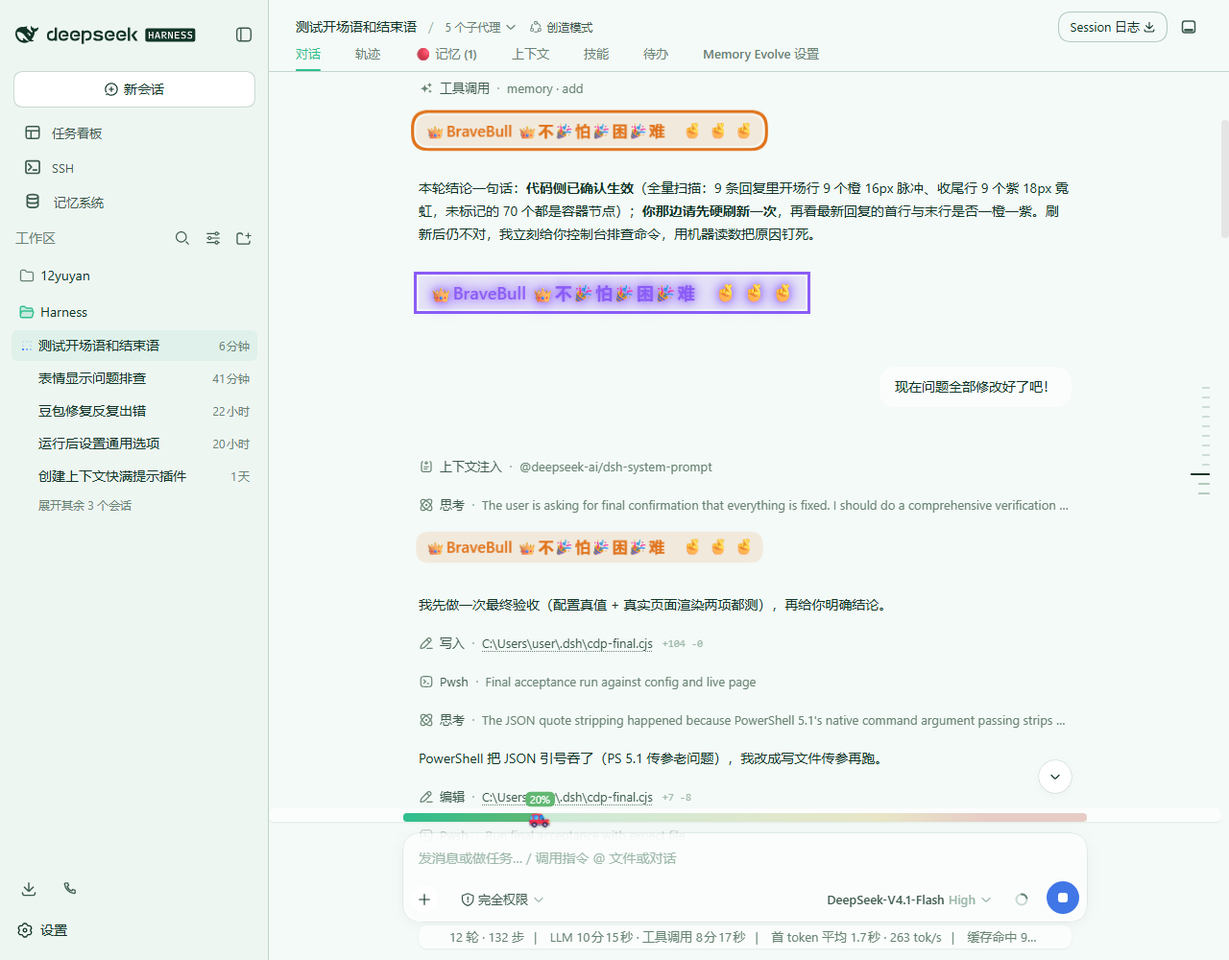
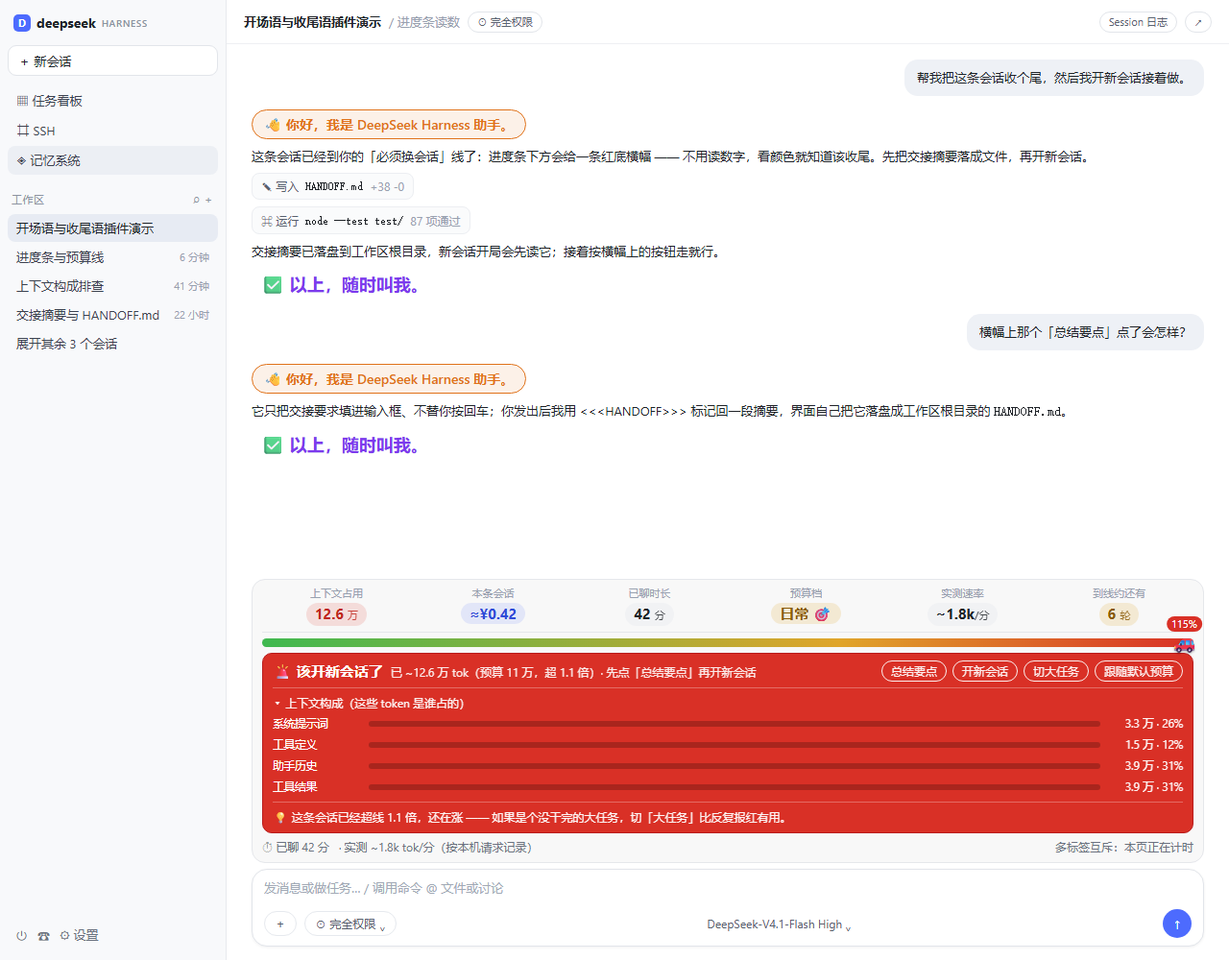
docs: README 全面重写（补齐 1.11-1.20 能力）+ 重拍两张预览图（六格读数 / 红底预算横幅 / 设置页全分区）

diff --git a/README.md b/README.md
@@ -1,40 +1,46 @@
 <h1 align="center">dsh-greet-signoff</h1>
 
-<p align="center">开场语与收尾语：让 AI 每次回复都带上你设定的一句开场与一句收尾，并在上下文接近上限时用一条导航条提醒你开新会话。<br/>（DeepSeek Harness 插件 · Web 端）</p>
+<p align="center">开场语与收尾语 + 会话预算导航条：让每轮回复都带上你设定的一句开场与一句收尾，<br/>并在输入框上方常驻显示「这条会话还能聊多久」——到线时用颜色和横幅提醒你收尾换会话。<br/>（DeepSeek Harness 插件 · Web 端）</p>
 
 <p align="center">
   <img alt="license" src="https://img.shields.io/badge/license-MIT-blue.svg" />
   <img alt="platform" src="https://img.shields.io/badge/platform-web-2b6cb0.svg" />
   <img alt="dsh" src="https://img.shields.io/badge/dsh-0.1.5--rc.1-6f42c1.svg" />
+  <img alt="version" src="https://img.shields.io/badge/version-1.20.0-orange.svg" />
+  <img alt="tests" src="https://img.shields.io/badge/tests-87%20passed-3fb950.svg" />
 </p>
 
 <p align="center">
-  <img src="docs/preview-chat.png" alt="开场语与收尾语在对话里的效果" width="720" />
+  <img src="docs/preview-chat.png" alt="开场语与收尾语在对话里的效果，以及输入框上方的会话预算导航条" width="760" />
 </p>
 
 ## 这是什么
 
-一个 DeepSeek Harness 的 Web 插件，做三件事：
+一个 DeepSeek Harness 的 Web 插件：**给每轮回复加上你配置的开场语与收尾语，并在输入框上方常驻一条「会话预算导航条」** —— 这条会话花了多少、还剩多少、多久之后该开新会话，一眼可见。
 
-1. **固定开场语与收尾语**：每次回复的正文第一行是开场语、最后一行是收尾语，文字与样式都由你在设置里改。
-2. **正文行样式**：开场行与收尾行在对话里按各自配置渲染（字号、颜色、字重、动效、形状、填充、边框、阴影、字距、大小写、斜体、自定义图片）。
-3. **上下文占用导航条**：输入框上方一条进度条，实时显示当前上下文占用百分比，条上有"车头朝右"的小车标记、条尾有实时百分比，颜色随占用连续变化；接近上限时整条按告警色并闪动。还没有任何请求记录的空白会话显示 `—`（不是 0%）。
-4. **连接自愈**：`dsh web` 每次重启都会换访问令牌，已经打开的页面会一直停在"自动重连中"（旧握手续不上，官方建议手动刷新）。本插件带一个看门狗：连续 30 秒看到连接异常、且服务端本身可达（`/` 仍是 200）、且输入框里没有草稿时，自动重载一次页面 —— 重载会用 cookie 重新握手，页面自己就活了。服务真挂了（探活失败）不动作，避免刷屏；本标签页每小时最多自动重载 3 次、两次之间至少隔 60 秒。
-5. **文案池（1.7.0）**：开场语 / 收尾语各可以填一池句子（一行一句，最多 20 句），开启后每轮从池子里挑一句 —— 随机或按顺序轮换。池子里的句子同样支持动态变量，页面样式对池子里每一句都生效；某一行的池子留空，那一行自动回落固定文案。
-6. **本轮信息变量与自检（1.8.0）**：固定行里可以用 `{model}` `{count}` `{elapsed}` `{tokens}` —— 由服务端在每轮组装提示时填真实值（耗时与用量报的是**上一次**调用），页面侧用通配符匹配，所以数值怎么变都贴得上样式。设置页「诊断」区还有「跑一遍自检」：配置、文案、贴样式、进度条、连接自愈、宿主半/浏览器半版本、规则文本、会话识别，一次问到底。
-7. **场景与阈值提醒（1.9.0）**：①「场景」分区可以存下整份设置快照（文案+样式+阈值+文案池），一键在"工作 / 生活 / 深夜"之间整包切换；②上下文到黄/红阈值时进度条下方出现提醒行，附「总结要点」（把交接摘要要求交给你：优先写进输入框，不行就复制到剪贴板，再不行直接显示）与「开新会话」；③浏览器控制台可用 `__dshGreetSignoff` 查看版本、自愈计数、输入框定位与写入结果。
-8. **按工作区换文案与编辑器增强（1.10.0）**：①按工作区自动换文案（绑定目录前缀，优先级：工作区绑定 > 文案池 > 固定文案；设置页里有一键"填当前工作区"）；②一键外观改成 16 张小样卡（每张直接渲染当前文案的样子）；③底色/边色各有常用色板；④文案/外观可一键复制到另一行；⑤图片支持拖拽上传；⑥「撤销上次保存」一键回退。
+1. **固定开场语与收尾语**：每次回复的正文第一行是开场语、最后一行是收尾语，文字与样式都在设置里改；改完保存，下一轮回复即生效（不用重启）。
+2. **正文行样式**：开场行与收尾行在对话里按各自配置渲染 —— 字号、颜色（含深色档）、字重、动效、形状、填充、边框、阴影、字距、大小写、斜体、自定义图片。
+3. **六格读数**：`上下文占用` / `本条会话花费` / `已聊时长` / `预算档` / `实测速率` / `到线约还有`。窗口变窄自动退回 3 列、2 列，数字不会被挤成省略号。
+4. **预算口径（默认）**：进度条 100% = **你自己设的「必须换会话」线**（默认 7.5 万提醒 / 11 万必须换），不是 100 万 tok 的模型窗口 —— 后者会让一条早该收尾的会话显示成 24%。
+5. **到线就不靠数字了**：到黄线整条变黄 + 标签页标题加 `⚠`；到红线整条变红 + 呼吸 + **红底大字横幅「🚨 该开新会话了」** + 标题加 `🚨`；还能开浏览器系统通知（页面在后台也收得到）。
+6. **一键收尾与换会话**：横幅上是「总结要点 / 开新会话 / 切大任务 / 跟随默认预算」。点「总结要点」只把要求写进输入框（不替你发送），你发出后我把摘要用 `<<<HANDOFF>>>` 标记回给你，**界面自己把它落盘成工作区根目录的 `HANDOFF.md`**，新会话开局会先读它 —— 上下文与结论才真的带得过去。
+7. **上下文构成明细**：点开横幅里的「上下文构成」，按 token 从大到小列出系统提示词 / 工具定义 / 记忆注入 / 助手历史 / 工具结果各占多少，直接告诉你"砍哪里省钱"。
+8. **花费台账**：进度条那行常驻本条会话的 `≈¥0.42`；设置页里有今天 / 近 7 天 / 最贵几条会话的账。全部读本机文件（`session_projcache` 上下文投影、`dsh-usage/usage-ledger.json`），**不联网、不外发**。
+9. **四档预算模式**：`日常` 7.5 万/11 万、`大任务` 15 万/20 万、`省着聊` 5 万/7.5 万、`自定义`。优先级：**本会话临时档 &gt; 全局默认档 &gt; 内置默认**；三个入口都能切（进度条行里的 🎯 胶囊 / 到线横幅按钮 / 设置页）。
+10. **场景与文案池**：文案池每轮从一池句子里挑一句（随机或按顺序）；「场景」把整份设置（文案+样式+阈值+池子）存成快照，工作/生活/深夜一键整包切换；还能按工作区目录前缀自动换文案。
+11. **动态变量与自检**：固定行里可用 `{date}` `{weekday}` `{daypart}` `{time}` `{model}` `{count}` `{elapsed}` `{tokens}`，由服务端每轮填真实值；设置页「诊断 → 跑一遍自检」把配置、文案、贴样式、进度条、连接自愈、两侧版本一次问到底。
+12. **连接自愈**：`dsh web` 重启会换令牌，已打开的页面会卡在"自动重连中"。本插件带看门狗：连续 30 秒连接异常、服务端可达（`/` 仍 200）、且输入框没有草稿时自动重载一次；服务真挂了不动作，本标签页每小时最多 3 次、间隔 ≥60 秒。
 
 配置存在 `$DSH_HOME/greet-signoff.json`（Windows 默认 `C:\Users\<你>\.dsh\greet-signoff.json`），**改完保存下一轮回复即生效，不需要重启**。
 
 ## 为什么需要它
 
 - **没有它**：每次想让 AI 的开场/收尾保持一致，只能自己写提示词、或者每次手动粘贴同一句；样式（颜色/字号/动效）更是完全没法统一。
-- **上下文快满时**：你往往是在"回答突然变差/被截断"之后才意识到该开新会话了——这个插件把"还剩多少"变成常驻可见的状态。
+- **上下文快满时**：你往往是在"回答突然变差/被截断"之后才意识到该开新会话了——这个插件把"还剩多少"变成常驻可见的状态，并且用**颜色和横幅**说话，不要求你去心算百分比。
 - **与相邻方案的区别**：
-  - 与「写一段固定提示词」相比：文案与样式都是**可配置项 + 页面渲染**——文案进提示段、样式由浏览器半给对话里那两行贴类渲染，两边共用同一份配置，改完保存即生效（不用重启，也不用改提示词）。
-  - 与 **`dsh-context`**（上下文仪表盘 / context 命令，能看到上下文由什么组成、缓存命中等明细）相比：本插件只做**一条常驻的占用导航条**，不采集、不落库、不开面板；两者可以共存，导航条挂在 `conversation.input.dock`，`dsh-context` 用的是 `conversation.input.overlay` 与右侧栏，互不遮挡。如果你只用其中一家的占用显示，另一家可以停用。
-  - 与 **`dsh-gold-capsule`** 互斥：那个插件用 `!important` 把**标题里的行内代码**渲染成金色胶囊。一旦把固定行写成 `### \`开场语\``，本插件设置页里的字色/底色/边框/形状/动效会被金色胶囊压掉。**固定行请保持纯文本一行**，两个插件只留一个负责首行样式。
+  - 与「写一段固定提示词」相比：文案与样式都是**可配置项 + 页面渲染**——文案进提示段、样式由浏览器半给对话里那两行贴类渲染，两边共用同一份配置。
+  - 与 **`dsh-context`**（上下文仪表盘 / context 命令）相比：本插件做的是**输入框上方那一条常驻导航条**，不采集、不落库、不开面板；两者可以共存，导航条挂在 `conversation.input.dock`，`dsh-context` 用的是 `conversation.input.overlay` 与右侧栏，互不遮挡。
+  - 与 **`dsh-gold-capsule`** 互斥：那个插件用 `!important` 把**标题里的行内代码**渲染成金色胶囊，会把本插件设置的字色/底色/边框/形状/动效压掉。**固定行请保持纯文本一行**，两个插件只留一个负责首行样式。
 
 ## 安装
 
@@ -48,31 +54,22 @@ dsh plugin --profile web add github:weifa860504-droid/dsh-greet-signoff
 dsh plugin --profile web add <本地包目录的绝对路径>
 ```
 
-装完重启 web：重启后打开任意会话，输入框上方应出现进度条；设置 → 开场收尾 里应出现配置页。
+装完重启 web：重启后打开任意会话，输入框上方应出现导航条；设置 → 开场收尾 里应出现配置页。
 
 ## 用起来是什么样
 
-- **对话里**：每条回复第一行渲染成你配的开场样式（默认橙色 16px、脉冲动效、胶囊底），最后一行渲染成收尾样式（默认紫色 18px、霓虹动效、直角）。中间正文不受影响。
-- **输入框上方**：一条进度条 + 车标 + 百分比气泡，鼠标悬停显示「上下文占用 25% · ~245.3k / 1.0M · 剩余 ~755k · 约还能聊 12 轮（最近 5 轮均值 ~62.3k/轮）」这类明细；形态可在「完整 / 紧凑细条 / 只显示一行文字」之间切换。
-- **占用格的采样口径**：读数那一排里的「上下文占用」格自己带悬停说明 —— 它是"**发下一条消息时预计要喂进去多少 token**"
-  （上一次请求真正喂进去的 prompt + 那次采样之后界面上新增的部分），**只在每轮请求结束后刷新一次、天然滞后一轮**，
-  不是屏幕上现在有多少字；预算档下顺带写出当前黄线 / 红线与本次读数，超红线提示"建议开新会话"。
-- **接近上限时**：整条按告警色并闪动，下方给出一行提醒；超过阈值还带一个「开新会话」按钮，点一下直接开新会话。
-- **设置页**：左侧菜单栏的「开场收尾」一处入口（设置页里只有这一个入口，不会重复出现）；开场/结束语各一个标签页可切换，改动自动保存，右侧显示「已保存 · 下一次回复即生效」。
-- **预览吸顶**：标签页、保存状态与**实时预览**合并成一条吸顶头部 —— 预览同时显示开场与收尾两行（正在编辑的那行高亮），
-  往下调参数时它一直停在屏幕上方，不用"滚下去改完再滚回来核对"。
-- **分区折叠**：文本 / 字体与颜色 / 外观样式 / 上下文提醒与匹配 / 旧文案兼容 / 进度条外观 / 诊断 各自是一张可折叠卡片，
-  默认只展开高频的三个，其余收起（展开状态记在浏览器本地）；标题右侧带摘要（阈值与匹配模式、旧文案条数、配色、版本号），不展开也能看到当前状态。
-- **一键外观（16 套）**：财神金 / 极简灰 / 大字醒目 / 霓虹赛博 / 樱花 / 复古打字 / 海盐蓝 / 森林绿 / 紫罗兰 /
-  描边风 / 高亮笔 / 引用块 / 细下划线 / 墨绿终端 / 霓虹粉 / 纸质标签 —— 点一下即套用，**只改外观，不动文案与图片**；
-  可只套当前标签页，也可两行都套；旁边的「恢复默认外观」把当前行的外观还原成默认值（文案同样不动）。
-  每套预设都以同一份"底子"打底再叠加，因此套用结果完全可预期（不会残留你之前手调的底色/边框）。
-- **30 种动效**：淡入 / 滑入 / 落下 / 缩放 / 翻转 / 光泽扫过 / 高光划过 / 呼吸 / 心跳 / 发光 / 霓虹闪 / 闪烁 /
-  弹跳 / 抖动 / 摇晃 / 摆动 / 倾斜 / 漂浮 / 旋转 / 波浪 / 彩虹流动 …… 外加 4 种**逐字**动效：
-  **逐字跳动 / 逐字波浪 / 逐字打字机 / 逐字彩虹**（前三者按"字"拆开、逐字错开 0.075s 播放，速度倍率一起生效；
-  emoji 不会被拆散）。动效写在「字体与颜色 → 动效」，速度在它右边。
-- **可搬走**：设置页底部可「导出配置 / 导入配置」（JSON），换电脑或分享给别人都方便。
-- **出问题能自查**：设置页底部有「诊断」折叠区，显示配置文件路径、贴样式器运行次数与耗时、上次扫描的命中行数、跳过了多少非助手块、当前匹配模式等。
+- **对话里**：每条回复第一行渲染成你配的开场样式（默认橙色 16px、脉冲动效、胶囊底），最后一行渲染成收尾样式（默认紫色 18px、霓虹动效、直角）。中间正文不受影响。**一条回复被工具调用拆成多个块时，两行也各归各位**（按文案身份分配样式）。
+- **输入框上方（导航条）**：从上到下是 ① 六格读数 ② 贯通进度条 + 车标 + 百分比气泡 ③ 到线横幅（未到线时不显示）④ 上下文构成明细（展开时）⑤ 时间行 `⏱ 已聊 42 分 · 实测 ~1.8k tok/分`。鼠标悬停时进度条上浮出明细提示。
+- **占用格自己会解释**：悬停「上下文占用」写清采样口径 —— 它是"**发下一条消息时预计要喂进去多少 token**"（上一次请求真正喂进去的 prompt + 那次采样之后界面新增的部分），**只在每轮请求结束后刷新一次、天然滞后一轮**，不是屏幕上现在有多少字；预算档下顺带写出黄线/红线与本次读数。
+- **到线时**：黄条/红条 + 标题前缀 + 红底横幅（可开系统通知）。横幅上的按钮就是下一步动作：`总结要点`（把交接要求填进输入框，界面自动落盘 `HANDOFF.md`）、`开新会话`、`切大任务`、`跟随默认预算`。
+- **设置页**：左侧菜单栏「开场收尾」一个入口；开场语 / 结束语两个标签页，改动自动保存，右侧显示「已保存 · 下一次回复即生效」。
+- **预览吸顶**：标签页、保存状态与**实时预览**合并成一条吸顶头部 —— 预览同时显示开场与收尾两行（正在编辑的那行高亮），往下调参数时它一直停在屏幕上方。
+- **分区折叠 + 快速跳转**：文本 / 字体与颜色 / 外观样式 / 上下文提醒与匹配 / 进度条外观 / 场景 / 花费与上下文 / 诊断 各自是一张可折叠卡片，默认只展开高频的几个；顶部有快速跳转条（一键展开并跳过去）。
+- **一键外观（16 套）**：财神金 / 极简灰 / 大字醒目 / 霓虹赛博 / 樱花 / 复古打字 / 海盐蓝 / 森林绿 / 紫罗兰 / 描边风 / 高亮笔 / 引用块 / 细下划线 / 墨绿终端 / 霓虹粉 / 纸质标签 —— 点一下即套用，**只改外观，不动文案与图片**。
+- **30 种动效**：淡入 / 滑入 / 落下 / 缩放 / 翻转 / 光泽扫过 / 高光划过 / 呼吸 / 心跳 / 发光 / 霓虹闪 / 闪烁 / 弹跳 / 抖动 / 摇晃 / 摆动 / 倾斜 / 漂浮 / 旋转 / 波浪 / 彩虹流动 …… 外加 4 种**逐字**动效（逐字跳动 / 逐字波浪 / 逐字打字机 / 逐字彩虹；emoji 不会被拆散）。
+- **长尾选项不挡路**：配色（33 套）、动效（30 项）、车标（31 款）默认只列常用 6 项，末尾那条「▾ 显示全部 / ▴ 只看常用」同一个用法 —— 选择成本下来了，功能一个没少。
+- **可搬走**：设置页底部可「导出配置 / 导入配置」（JSON）；「撤销上次保存」一键回退。
+- **出问题能自查**：设置页「诊断」显示配置文件路径、贴样式器运行次数与耗时、命中行数、宿主半/浏览器半版本、规则文本与会话识别。
 
 ![设置页](docs/preview-settings.png)
 
@@ -82,11 +79,15 @@ dsh plugin --profile web add <本地包目录的绝对路径>
 | --- | --- |
 | Prompt 段 | 向系统提示注册「开场与收尾」规则，每次组装提示时实时读取配置，因此改文案立即生效 |
 | 配置接口 | `GET /api/greet-signoff` 读真值、`POST /api/greet-signoff` 写整份配置（设置页用的就是它） |
-| 资源接口 | `GET /api/greet-signoff/asset/<name>` 回自定义图片；`GET /api/greet-signoff/emoji-index` 回表情中文名/关键词索引（浏览器半**首次展开表情框时才取**，主包因此小了 51KB） |
-| 会话接口 | `GET /api/greet-signoff/session?sessionId=<id>` 回会话创建时间与上一轮统计（进度条时间功能用）；`GET /api/greet-signoff/rule-text` 回"这一刻模型会看到的规则文本"，自检用 |
-| 设置 UI | 只注册 `settings.section`（左侧菜单栏「开场收尾」一处入口；不再往「通用」里塞第二行，避免同一个编辑器出现两个入口） |
-| 状态 UI | 注册 `conversation.input.dock`，在输入框上方渲染上下文占用导航条（占用百分比 + 已聊时长 / 还能聊多久） |
-| 深浅判定 | 综合 `body[data-ds-dark-theme]`、根元素 `color-scheme`、系统偏好与页面底色亮度，结果写到 `<html data-gs-dark>`；dark-only 皮肤也能正确套用 `colorDark`/`bgColorDark`/`borderColorDark` |
+| 资源接口 | `GET /api/greet-signoff/asset/<name>` 回自定义图片；`GET /api/greet-signoff/emoji-index` 回表情中文名/关键词索引（首次展开表情框时才取） |
+| 会话接口 | `GET /api/greet-signoff/session?sessionId=<id>` 回会话创建时间与上一轮统计；`GET /api/greet-signoff/rule-text` 回"这一刻模型会看到的规则文本"，自检用 |
+| 明细接口 | `GET /api/greet-signoff/context?sessionId=<id>` 回上下文构成明细 + 速率/每轮涨量（`pace`）；`GET /api/greet-signoff/cost?sessionId=<id>&days=7` 回花费台账 |
+| 落盘接口 | `POST /api/greet-signoff/handoff` 写工作区根目录的 `HANDOFF.md`（已存在先备份 `.bak`；filename/cwd/text 三重校验） |
+| 数据来源 | 只读本机 `session_projcache`（上下文投影）、`dsh-usage/usage-ledger.json`（台账）与配置目录；不联网、不外发、不建库 |
+| 设置 UI | 只注册 `settings.section`（左侧菜单栏「开场收尾」一处入口） |
+| 状态 UI | 注册 `conversation.input.dock`，在输入框上方渲染导航条（六格读数 + 进度条 + 横幅 + 时间行） |
+| 深浅判定 | 综合 `body[data-ds-dark-theme]`、根元素 `color-scheme`、系统偏好与页面底色亮度，结果写到 `<html data-gs-dark>`；dark-only 皮肤也能正确套用深色档颜色 |
+| 通知 | 可选的浏览器系统通知（到线时发；需在设置页打开并向浏览器授权） |
 
 本插件**不注册模型工具**，也不发布宿主服务（仅消费 `systemPrompt`、`webServer` 两个宿主服务与浏览器端的 `slots`）。
 
@@ -102,8 +103,8 @@ dsh plugin --profile web add <本地包目录的绝对路径>
 | `fontWeight` | 字重（400/500/600/700/800） | 600 / 600 |
 | `color` | 文字颜色（空=跟随主题） | 空 / 空 |
 | `colorDark` | 深色主题下的文字颜色（空=沿用 `color`） | 空 / 空 |
-| `animation` / `animSpeed` | 动效（26 种，含 pulse/neon/rainbow 等）与倍速 1–4 | `none` / 1 |
-| `shape` / `radius` | 形状（10 种：pill/round/soft/rect/card/tag/underline/highlight/blockquote）与圆角 0–999 | `none` / 12 |
+| `animation` / `animSpeed` | 动效（30 种，含 4 种逐字）与倍速 1–4 | `none` / 1 |
+| `shape` / `radius` | 形状（10 种：pill/round/soft/rect/card/tag/underline/highlight/blockquote 等）与圆角 0–999 | `none` / 12 |
 | `padY` | 纵向内边距 0–24 | 5 / 5 |
 | `fill` / `bgColor` | 填充方式（none/faint/theme/solid）与背景色 | `none` / 空 |
 | `bgColorDark` / `borderColorDark` | 深色主题下的背景色 / 边框色（空=沿用浅色值） | 空 / 空 |
@@ -119,8 +120,12 @@ dsh plugin --profile web add <本地包目录的绝对路径>
 
 | 字段 | 含义 | 默认 |
 | --- | --- | --- |
-| `warnPercent` | 黄色告警阈值 | 70 |
+| `warnPercent` | 黄色告警阈值（「占模型窗口」口径用） | 70 |
 | `criticalPercent` | 红色告警阈值（自动保证大于黄色） | 85 |
+| `pricing` | 计价口径：未命中输入 / 缓存命中输入 / 输出（元每百万） | 1 / 0.02 / 4 |
+| `pool` | 文案池：`{ enabled, mode: "sequence" \| "random", greeting: [], signOff: [] }` | 关闭 |
+| `scenes` | 场景快照列表（每项是整份设置的快照，含文案、样式、阈值、池子） | `[]` |
+| `bindings` | 按工作区绑定（目录前缀 → 文案/样式覆盖） | `[]` |
 | `matchMode` | 固定行匹配方式：`exact` 逐字相同 / `loose` 宽松（忽略大小写、空白、全半角与首尾标点）/ `fuzzy` 近似容错 | `loose` |
 | `onlyAssistant` | 只给助手的回复贴样式；`false` 时整段对话都贴 | true |
 | `legacyLines` | 旧文案兼容表：`[{ text, style: "greeting" \| "signOff" }]`，最多 30 条，**只影响页面渲染，不写进提示词** | `[]` |
@@ -136,7 +141,7 @@ dsh plugin --profile web add <本地包目录的绝对路径>
   - **宽松**（默认）：先去掉零宽字符、压缩空白，再做 Unicode NFKC（全角→半角）、把中文标点折叠成 ASCII（`，`→`,`、`。`→`.`）、去掉所有空白、削掉首尾的引号/括号/星号/井号与句读，并统一小写；
   - **近似容错**：在宽松的基础上再算编辑距离，相似度 ≥ 86% 且长度差 ≤ 25% 才算命中（例如只差一个字、一个数字）。
 - **多行文案**：文案里可以换行；如果宿主把换行渲染成两个段落，两段会依次比对、都贴上同一套样式。
-- **动态变量**：`{date}` `{year}` `{month}` `{day}` `{weekday}` `{daypart}` `{time}`；宿主在写提示词时就解析成具体文字，页面渲染时按同一套规则解析（带 `{daypart}` 时页面会把所有时段都当作候选，正好跨过时段边界也不会掉样式）。
+- **动态变量**：`{date}` `{year}` `{month}` `{day}` `{weekday}` `{daypart}` `{time}` `{model}` `{count}` `{elapsed}` `{tokens}`；宿主在写提示词时就解析成具体文字，页面渲染时按同一套规则解析（带 `{daypart}` 时页面会把所有时段都当作候选，正好跨过时段边界也不会掉样式）。
 - **只贴助手的回复**（默认开）：宿主给每个消息块打了 `data-chat-flow-kind`，用户消息、工具结果、思考面板一律跳过；认不出的宿主版本会退化成"整段都贴"，不会整片失效。
 - 候选标签是 `p / li / div / span / h1–h6 / code`，因此模型偶尔把固定行写成 `# 标题`、`**加粗**` 或用反引号包起来也能命中；
 - 同一行同时命中外层与内层时只保留最外层；**一条回复被工具调用拆成多个块时，按"文案身份"分配样式**（命中开场文案=开场样式），只有两行文案其实是同一句时才退回按位置区分。
@@ -148,20 +153,19 @@ dsh plugin --profile web add <本地包目录的绝对路径>
 | 项 | 说明 |
 | --- | --- |
 | 粗细 | 进度条高度（px） |
-| 配色 | **33 套**，分 6 组：经典与自然、柔和粉彩、缤纷高饱和、冷色科技、浓郁对比、灰阶。每套由三个锚点色组成（安全色 / 黄阈值色 / 红阈值色），整条色带按你设的两个阈值连续插值。默认只列常用 6 套，下拉末尾那条「▾ 显示全部（33 套）/ ▴ 只看常用（6 套）」与动效、车型同一个用法（选它只切显示范围，不改变当前配色） |
+| 配色 | **33 套**，分 6 组：经典与自然、柔和粉彩、缤纷高饱和、冷色科技、浓郁对比、灰阶。每套由三个锚点色组成（安全色 / 黄阈值色 / 红阈值色），整条色带按两个阈值连续插值。默认只列常用 6 套，末尾「▾ 显示全部（33 套）」展开 |
 | 小车 | 31 款车型表情，或上传自定义图片（可翻转、可调大小与朝向） |
-| 时间显示 | 默认开：进度条下方多一行 `⏱ 已聊 42 分 · 预计还能聊 ~35 分 · 实测 ~1.2k/分`，每 5 秒自己重算（页面在后台时不重算） |
-| 口径 | **默认「按你的预算线」**：进度条 100% = 你设的「必须换会话」线，而不是 100 万 tok 的模型窗口。切「占模型窗口」即回到旧口径（那个 24% 看着安全、其实早该换会话） |
-| 预算模式 | **三档预设 + 自定义**：`日常` 7.5 万/11 万、`大任务` 15 万/20 万、`省着聊` 5 万/7.5 万、`自定义`用下面手填的两个数。默认档存浏览器本地，只决定两条线画在哪 |
-| 黄线 / 红线（自定义档） | 选「自定义」时生效的两个分界 token 数，默认 **7.5 万 / 11 万**。到黄线变黄 + 标签页标题加 `⚠`；到红线整条变红 + 呼吸 + 红底大字横幅 `🚨 该开新会话了` + 标题加 `🚨` |
+| 时间显示 | 默认开：`⏱ 已聊 42 分 · 实测 ~1.8k tok/分`，每 5 秒重算（页面在后台时不重算）；拿不到读数时会标「上次读数 X 前」，不会让你以为进度条坏了 |
+| 口径 | **默认「按你的预算线」**：100% = 你设的「必须换会话」线。切「占模型窗口」即回到旧口径（那个 24% 看着安全、其实早该换会话） |
+| 预算模式 | **四档**：`日常` 7.5 万/11 万、`大任务` 15 万/20 万、`省着聊` 5 万/7.5 万、`自定义`（用手填的两个数）。优先级：**本会话临时档 &gt; 全局默认档 &gt; 内置默认** |
+| 黄线 / 红线（自定义档） | 选「自定义」时生效的两个分界 token 数，默认 **7.5 万 / 11 万**。到黄线变黄 + 标题加 `⚠`；到红线整条变红 + 呼吸 + 红底大字横幅 `🚨 该开新会话了` + 标题加 `🚨` |
+| 窗口窄时 | 六格读数按 6 → 3 → 2 列自动回落；「紧凑 / 纯文字」形态把时间并进同一行文字 |
 
-**预算模式（=「大任务模式」）怎么用**：小任务用「日常」，一次大改造/长调研切到「大任务」抬线，
-免得日常线一直报红、提醒变成噪音。三个入口：
+**预算模式（=「大任务模式」）怎么用**：小任务用「日常」，一次大改造/长调研切到「大任务」抬线，免得日常线一直报红、提醒变成噪音。三个入口：
 
 1. **进度条行里的 `🎯` 小胶囊**（主入口）：点一下按 `日常 → 大任务 → 省着聊 → 跟随默认` 轮转。
-   它改的是**本会话临时档**（存 `gs.signoff.mode.<sessionId>`），不动设置页里的默认档；开新会话即失效。
-2. **到线横幅上的按钮**：红线横幅里多了「切大任务」（一键抬到 15 万/20 万）和「跟随默认预算」（清掉临时档），
-   正好在"要不要开新会话"这个决策点上。
+   它改的是**本会话临时档**（存 `gs.signoff.mode.<sessionId>`，只存在你浏览器里），不动设置页里的默认档；开新会话即失效。
+2. **到线横幅上的按钮**：红线横幅里多了「切大任务」（一键抬到 15 万/20 万）和「跟随默认预算」（清掉临时档），正好在"要不要开新会话"这个决策点上。
 3. **设置页**「进度条外观 → 预算模式」：改的是**全局默认档**，一条命令管所有会话。
 
 **为什么默认不按"模型窗口"显示**：分母用模型窗口（本机 100 万 tok）时，一条已经 24.9 万 tok、早该换会话的
@@ -169,35 +173,34 @@ dsh plugin --profile web add <本地包目录的绝对路径>
 预算口径把 100% 定义成**你自己的红线**，超了就写"超 N 倍"，并且配大横幅 + 标签页标题前缀，
 **不用读数字就知道该开新会话了**。
 
-**「已聊多久 / 实测速率」是怎么来的**（都要真实数字，不做摆设）：
+**「已聊多久 / 实测速率 / 到线约还有」是怎么来的**（v1.20.0，都要真实数字，不做摆设）：
 
-- **已聊多久** = 现在 − 本会话的 durable 创建时间（`Session.header.createdAt`）。浏览器半看不到 header，
-  所以由宿主半的 `GET /api/greet-signoff/session?sessionId=<id>` 提供；宿主半没响应/还没跑过调用时，
-  退回「这个浏览器第一次看到该会话的时刻」（存 `localStorage` 的 `gs.signoff.starts`，刷新与重启不丢）。
-- **实测速率** = 最近 45 分钟的读数采样（每 5 秒一个点，压缩导致占用回落时采样窗口清空重来）算出的
-  token/分钟。v1.14.0 起**不再由它外推「预计还能聊 ~X 分钟」**——外推值一旦猜偏就再也没人信了；
-  现在只报这个"确实发生过"的速率，外加一个粗口径的「到线大约还有 N 轮」（速率算不出来时才用）。
-- **读数新鲜度**：token 读数只在上一次请求结束后才更新，所以读数超过 2 分钟没变时会标一句
-  「上次读数 X 前」——看着时间在走、百分比不动时，不会再误以为进度条坏了。
-- 时间行只在「完整」形态显示；「紧凑 / 纯文字」形态把时间并进原来那一行文字里。
+- **已聊多久 = 活跃时长**：按会话 id 记账（存 `gs.signoff.active.<id>`），每 5 秒心跳累加，**两次间隔超过 5 分钟算断档、不累加** ——
+  合上电脑/去开会的时间不会被算进"已聊"。恢复一个旧会话从 0 起算；只有刚新建（创建时间距今 &lt;30 分钟）的会话才用"创建到现在"当种子。
+- **实测速率**：由**宿主半**从 `session_projcache` 的上下文时间线算 —— 45 分钟窗口内首末两点的 prompt 差 ÷ 时间差
+  （跨度不足 20 秒或没有增长时为 `null`）；窗口内点不够就退回"最后两条"并标注来源。所以**刚打开页面就有数**，
+  不用先在这个标签页里盯出一串采样；浏览器半只在拿不到时有采样兜底。
+- **每轮涨量 / 到线约还有**：按 turn 分组的"轮末 prompt 差"（跳过负值；DSH 会裁剪工具结果，所以末轮净增 ≤0 时取"轮内峰值 − 上一轮末"兜底）。
+  token 占用只在每轮请求结束后更新，所以这两格本质是"**一轮跳一次**"。
+- **不做外推**：不预测"还能聊多少分钟"这类会被猜偏的数字；只报确实发生过的速率与按轮次的粗口径估算。
 
-这些偏好存在浏览器 `localStorage`（键 `gs.signoff.ui`），按浏览器生效，不进全局配置，也不影响其它会话。
+这些偏好存在浏览器 `localStorage`（键 `gs.signoff.ui`），按浏览器生效，不进全局配置。
 
-### 花费与上下文（v1.14.0，全部读本机文件，不联网）
+### 花费与上下文（v1.20.0，全部读本机文件，不联网）
 
-- **进度条那行的 `≈¥0.42`**：本条会话累计花了多少钱。金额按本机台账的计价口径算
-  （未命中输入 ¥1/M、缓存命中输入 ¥0.02/M、输出 ¥4/M），数据来自 `$DSH_HOME/dsh-usage/usage-ledger.json`。
+- **进度条那行的 `≈¥0.42`**：本条会话累计花了多少钱。金额按计价口径算
+  （默认未命中输入 ¥1/M、缓存命中输入 ¥0.02/M、输出 ¥4/M，可在配置里改），数据来自本机上下文投影与 `$DSH_HOME/dsh-usage/usage-ledger.json`（两个时段桶都累加，并与台账自带金额对账）。
   顺带记住这条：**输出价是缓存读的 200 倍** —— 少让我啰嗦，比省那点上下文更省钱。
-- **「▸ 上下文构成」**：点开列出系统提示词 / 工具定义 / 记忆注入 / 助手历史 /
-  工具结果各占多少 token 与占比（读本机 `session_projcache` 的上下文投影）；前几名就是能砍的地方。
-  v1.15.3 起每行有自己的颜色（红底卡上也分得清），标题不再带「（这些 token 是谁占的）」，那句解释挪到悬停提示。
+- **「▸ 上下文构成」**：点开列出系统提示词 / 工具定义 / 记忆注入 / 助手历史 / 工具结果各占多少 token 与占比；
+  按 token 降序、最多 12 条，超出并成「其它」，另有"最占地方的单个片段"top 6。**前几名就是能砍的地方**。
+  每一行有自己的颜色，红底横幅里也分得清。
 - **设置页「花费与上下文」**：今天 / 近 7 天 / 最贵几条会话的台账，外加几个开关（显示花费、明细默认展开、
   档位建议、到线系统通知）和「显示诊断分区」。
 - **档位建议**：到线时按客观计数说一句"该抬线 / 该降档"，按钮就在旁边 —— **只提示，不自动改档**。
 - **到线系统通知**：页面在后台也能收到；需在设置页打开，并向浏览器授权（拿不到权限会如实说明）。
-- **交接包**：横幅上的「总结要点」现在要求把摘要**落盘**成工作区根目录的 `HANDOFF.md`，
+- **交接包**：横幅上的「总结要点」要求把摘要**落盘**成工作区根目录的 `HANDOFF.md`（已有同名文件会先备份 `.bak`），
   宿主半的提示段会在新会话开场时提示先读它 —— 换会话时上下文才真的带得过去。
-- **宿主半是旧版时**：以上这些整段显示成"读不到"，进度条本体照常工作，不会因为缺数据出问题。
+- **宿主半是旧版时**：以上整段显示成"读不到"，进度条本体照常工作，不会因为缺数据出问题。
 
 ### 接口与权限
 
@@ -214,30 +217,42 @@ curl -X POST -H "Content-Type: application/json" \
 # 进度条的时间功能要的数据：本会话创建时间（毫秒时间戳）+ 上一轮统计
 curl "http://127.0.0.1:3080/api/greet-signoff/session?sessionId=<会话 id>"
 
-# 上下文构成明细（这些 token 是谁占的）
+# 上下文构成明细（这些 token 是谁占的）+ 速率 / 每轮涨量
 curl "http://127.0.0.1:3080/api/greet-signoff/context?sessionId=<会话 id>"
 
 # 花费：本条会话 / 今天 / 近 7 天 / 最贵的几条
 curl "http://127.0.0.1:3080/api/greet-signoff/cost?sessionId=<会话 id>&days=7"
+
+# 把交接摘要落盘成工作区根目录的 HANDOFF.md（要带绝对路径 cwd）
+curl -X POST -H "Content-Type: application/json" \
+     --data '{"cwd":"E:\\work\\proj","filename":"HANDOFF.md","text":"……摘要正文……"}' \
+     http://127.0.0.1:3080/api/greet-signoff/handoff
 ```
 
 接口只在 DSH 自己监听的地址上提供，**不额外开端口、不对外发包**；配置与图片资产都落在本机
-（`$DSH_HOME/greet-signoff.json` 与 `$DSH_HOME/greet-signoff-assets/`）。这也意味着：能在这台机器上跑的程序
-（包括其它本地脚本）可以读写这份配置——这是 DSH 本机免认证的既有设计，请按"本机自用"来理解它。
+（`$DSH_HOME/greet-signoff.json` 与 `$DSH_HOME/greet-signoff-assets/`）。唯一的写操作是 POST `/handoff`（写摘要文件）。
+这也意味着：能在这台机器上跑的程序（包括其它本地脚本）可以读写这份配置——这是 DSH 本机免认证的既有设计，请按"本机自用"来理解它。
 
 ## 已知限制
 
-- **依赖宿主 DOM 结构**：对话里那两行是"匹配文本后贴样式类"实现的——按消息块判定（每块第一条=开场、最后一条=收尾），并排除思考/推理面板。宿主若改动消息的 DOM 结构或分块方式，可能出现"样式没贴上"或"贴错行"；升级宿主后建议扫一眼对话里的两行。
-- **模型整段改写固定行时不贴样式**：匹配是"同一句话"级别，不是"意思相近"级别（见上文《固定行是怎么被认出来的》）。真遇到了，可把「匹配」切到「逐字相同」来确认，或把开场语写得更独特一些。
-- **两行文字相同时**：如果你把开场语与结束语设成同一句话，两行样式仍会按位置各自生效（首行=开场样式、末行=收尾样式），但**文字看起来一样**；想要文字也不同，请在「结束语」标签里全选删除旧内容后重填。
+- **读数天然滞后一轮**：占用/花费/速率都来自"上一次请求结束"后的投影，所以你刚发出去的那句话要等这轮答完才计入；
+  轮内数字不动是设计使然，不是卡住。
+- **新开的页面一开始可能是"未知"**：投影要等这个页面见过一次读数（或宿主半把数据递过来）才成立；此时占用格显示 `—`，
+  到线横幅**不会**显示（未到线也不显示）。发一条消息后就有数。
+- **宿主半旧版时功能降级**：`/context`、`/cost`、`pace` 这些由宿主半提供；宿主半没重启到新版时，花费/构成/速率整段显示"读不到"，
+  进度条本体与固定行样式照常工作。
+- **依赖宿主 DOM 结构**：对话里那两行是"匹配文本后贴样式类"实现的——按消息块判定并排除思考/推理面板。宿主若改动消息的 DOM 结构或分块方式，可能出现"样式没贴上"或"贴错行"；升级宿主后建议扫一眼对话里的两行。
+- **模型整段改写固定行时不贴样式**：匹配是"同一句话"级别，不是"意思相近"级别（见上文）。真遇到了，可把「匹配」切到「逐字相同」来确认，或把开场语写得更独特一些。
+- **两行文字相同时**：如果你把开场语与结束语设成同一句话，两行样式仍会按位置各自生效（首行=开场样式、末行=收尾样式），但**文字看起来一样**。
+- **`HANDOFF.md` 会被后来的交接覆盖**：同一目录多次交接时，新摘要覆盖旧的（覆盖前自动备份同名 `.bak`）。交接完就接着开新会话，别拖着。
 - **装完要重启**：本包声明了组合层（`dsh.bundle.patch`），安装/升级后需要重启 `dsh web`；页面刷新不够。
-  浏览器半（`client.js`）的改动刷新页面即可；宿主半（`index.mjs`，含 `/session` 接口）必须重启。
+  浏览器半（`client.js`）的改动刷新页面即可；宿主半（`index.mjs`，含 `/session`、`/context`、`/cost`、`/handoff`）必须重启。
 - **深浅判定是启发式**：四条证据都不成立时（皮肤既不声明 `color-scheme`、底色又是透明或图片）会判成浅色。
   设置页「诊断 → 健康自检」里能看到四条证据的实测值，配色不对时先看那一行。
-- **单份配置**：所有 profile/会话共用 `$DSH_HOME/greet-signoff.json`；进度条外观偏好按浏览器分开。
-- **多标签页**：配置在打开页面时读一次，切回标签页/重新聚焦时补读；若另一标签页刚刚改动，本页可能要等一次聚焦才更新。
+- **单份配置**：所有 profile/会话共用 `$DSH_HOME/greet-signoff.json`；进度条外观偏好与预算档（本会话临时档）按浏览器本地保存。
+- **多标签页**：配置在打开页面时读一次，切回标签页/重新聚焦时补读；时长记账有互斥锁，只有一个标签页在计时。
 - **平台**：浏览器半仅在 Web 端注册 UI；宿主半（提示段与配置接口）不依赖平台。
-- **它会改写输入区上方的一处布局**：进度条挂在 `conversation.input.dock`，宿主会给该插槽的直接子元素套"附属卡片"样式（白底/圆角/阴影）。本插件已把自身容器设为透明并把对齐缩进放到内层元素，避免出现多余的白框；若宿主再改这条样式，可能又出现视觉偏差。
+- **它会改写输入区上方的一处布局**：导航条挂在 `conversation.input.dock`，宿主会给该插槽的直接子元素套"附属卡片"样式（白底/圆角/阴影）。本插件已把自身容器设为透明、把对齐缩进放到内层元素，避免多余白框；若宿主再改这条样式，可能又出现视觉偏差。
 - **数据安全**：配置保存是原子写（`.tmp` + 改名），并保留上一份 `.bak`；解析失败时会回落到默认值并在宿主日志里打一条 `config unreadable`，此时请从 `.bak` 手工恢复。
 
 ## 插件管理
@@ -260,15 +275,18 @@ dsh plugin --profile web remove <包名>  # 卸载（装完同样重启 web）
 
 ## 版本与更新
 
-版本历史见 [CHANGELOG.md](CHANGELOG.md)。开发/发版前的自检：
+当前版本 **1.20.0**。版本历史见 [CHANGELOG.md](CHANGELOG.md)。开发/发版前的自检：
 
 ```sh
-node --test test/                      # 13 个纯函数单测（把 client.js 用最小 DOM 桩加载进 Node）
-node scripts/verify-manifest.mjs       # 元数据、发布物清单、占位符、CHANGELOG 版本一致性
+node --test test/                      # 87 项纯函数与数据解析单测（把 client.js / index.mjs 用最小桩加载进 Node）
+node scripts/verify-manifest.mjs       # 元数据、发布物清单、占位符、体积阈值、CHANGELOG 版本一致性
 npm pack --dry-run                     # 预览真正会被打包的文件
 ```
 
 发版流程（含 CI 启用与 npm 发布步骤）见 [docs/RELEASING.md](docs/RELEASING.md)。
+
+> README 里的两张预览图（`docs/preview-chat.png`、`docs/preview-settings.png`）按插件自身的类名与 CSS 规则还原渲染，
+> 用于展示当前版本的真实布局；数值为示意值。改动 UI 后请同步重拍。
 
 ## 许可
 

diff --git a/CHANGELOG.md b/CHANGELOG.md
@@ -38,6 +38,11 @@
   `pickPace`（宿主优先 / 混合来源 / 脏输入）、新版 `rateFromJumps`、`paceSourceText`，
   外加一条锁住"进度条三格都从 pickPace 走、旧开关已删"的源码契约检查。
 - `scripts/verify-manifest.mjs` 体积阈值 380KB → 400KB（本版 client.js 370.9KB，新增的全是核心诊断逻辑）。
+- **文档重写**：README 补齐 1.11–1.20 的全部能力（预算口径与四档预算模式、六格读数、上下文构成明细、花费台账与对账、
+  交接包 `HANDOFF.md`、场景与文案池、活跃时长与实测速率的算法说明、长尾选项展开/收起），并把已知限制按"读数滞后一轮 /
+  新页面未知 / 宿主半旧版降级 / HANDOFF 覆盖"逐条写清。
+- **预览图重拍**：`docs/preview-chat.png`（对话页 + 六格读数 + 红底预算横幅）与 `docs/preview-settings.png`
+  （设置页全部分区）按当前版本的真实类名与 CSS 规则重新渲染；旧图里的导航条还是三格、没有横幅。
 
 ## [1.19.0] - 2026-09-20
 
